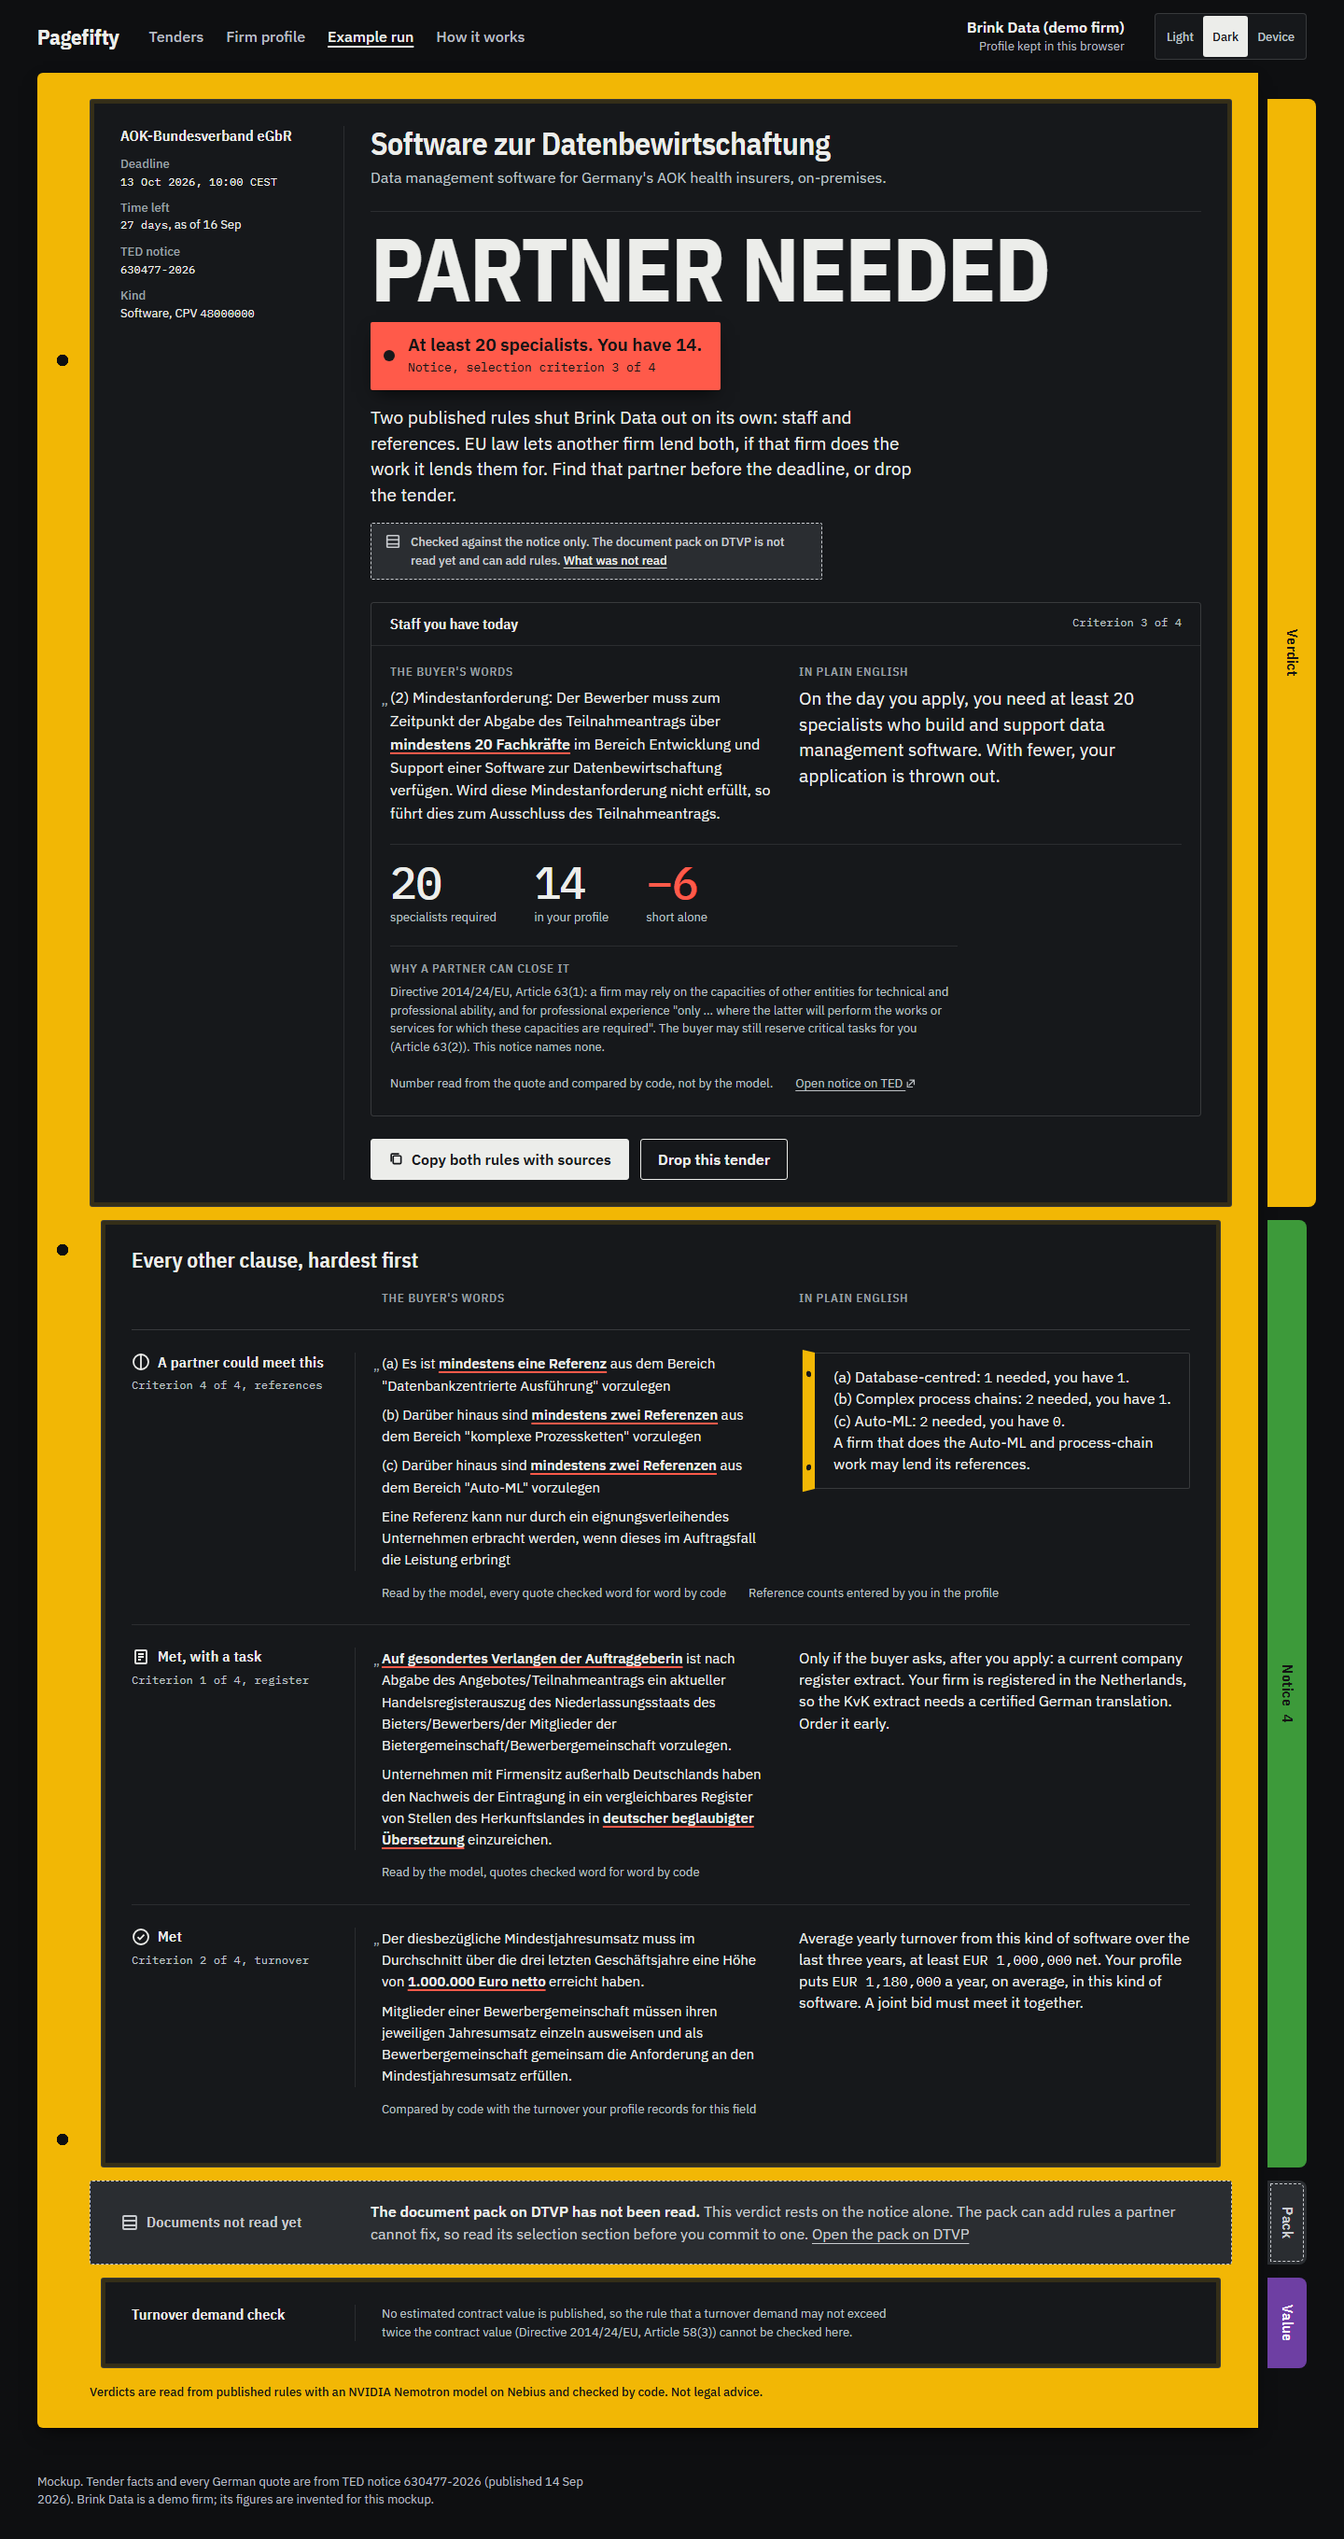
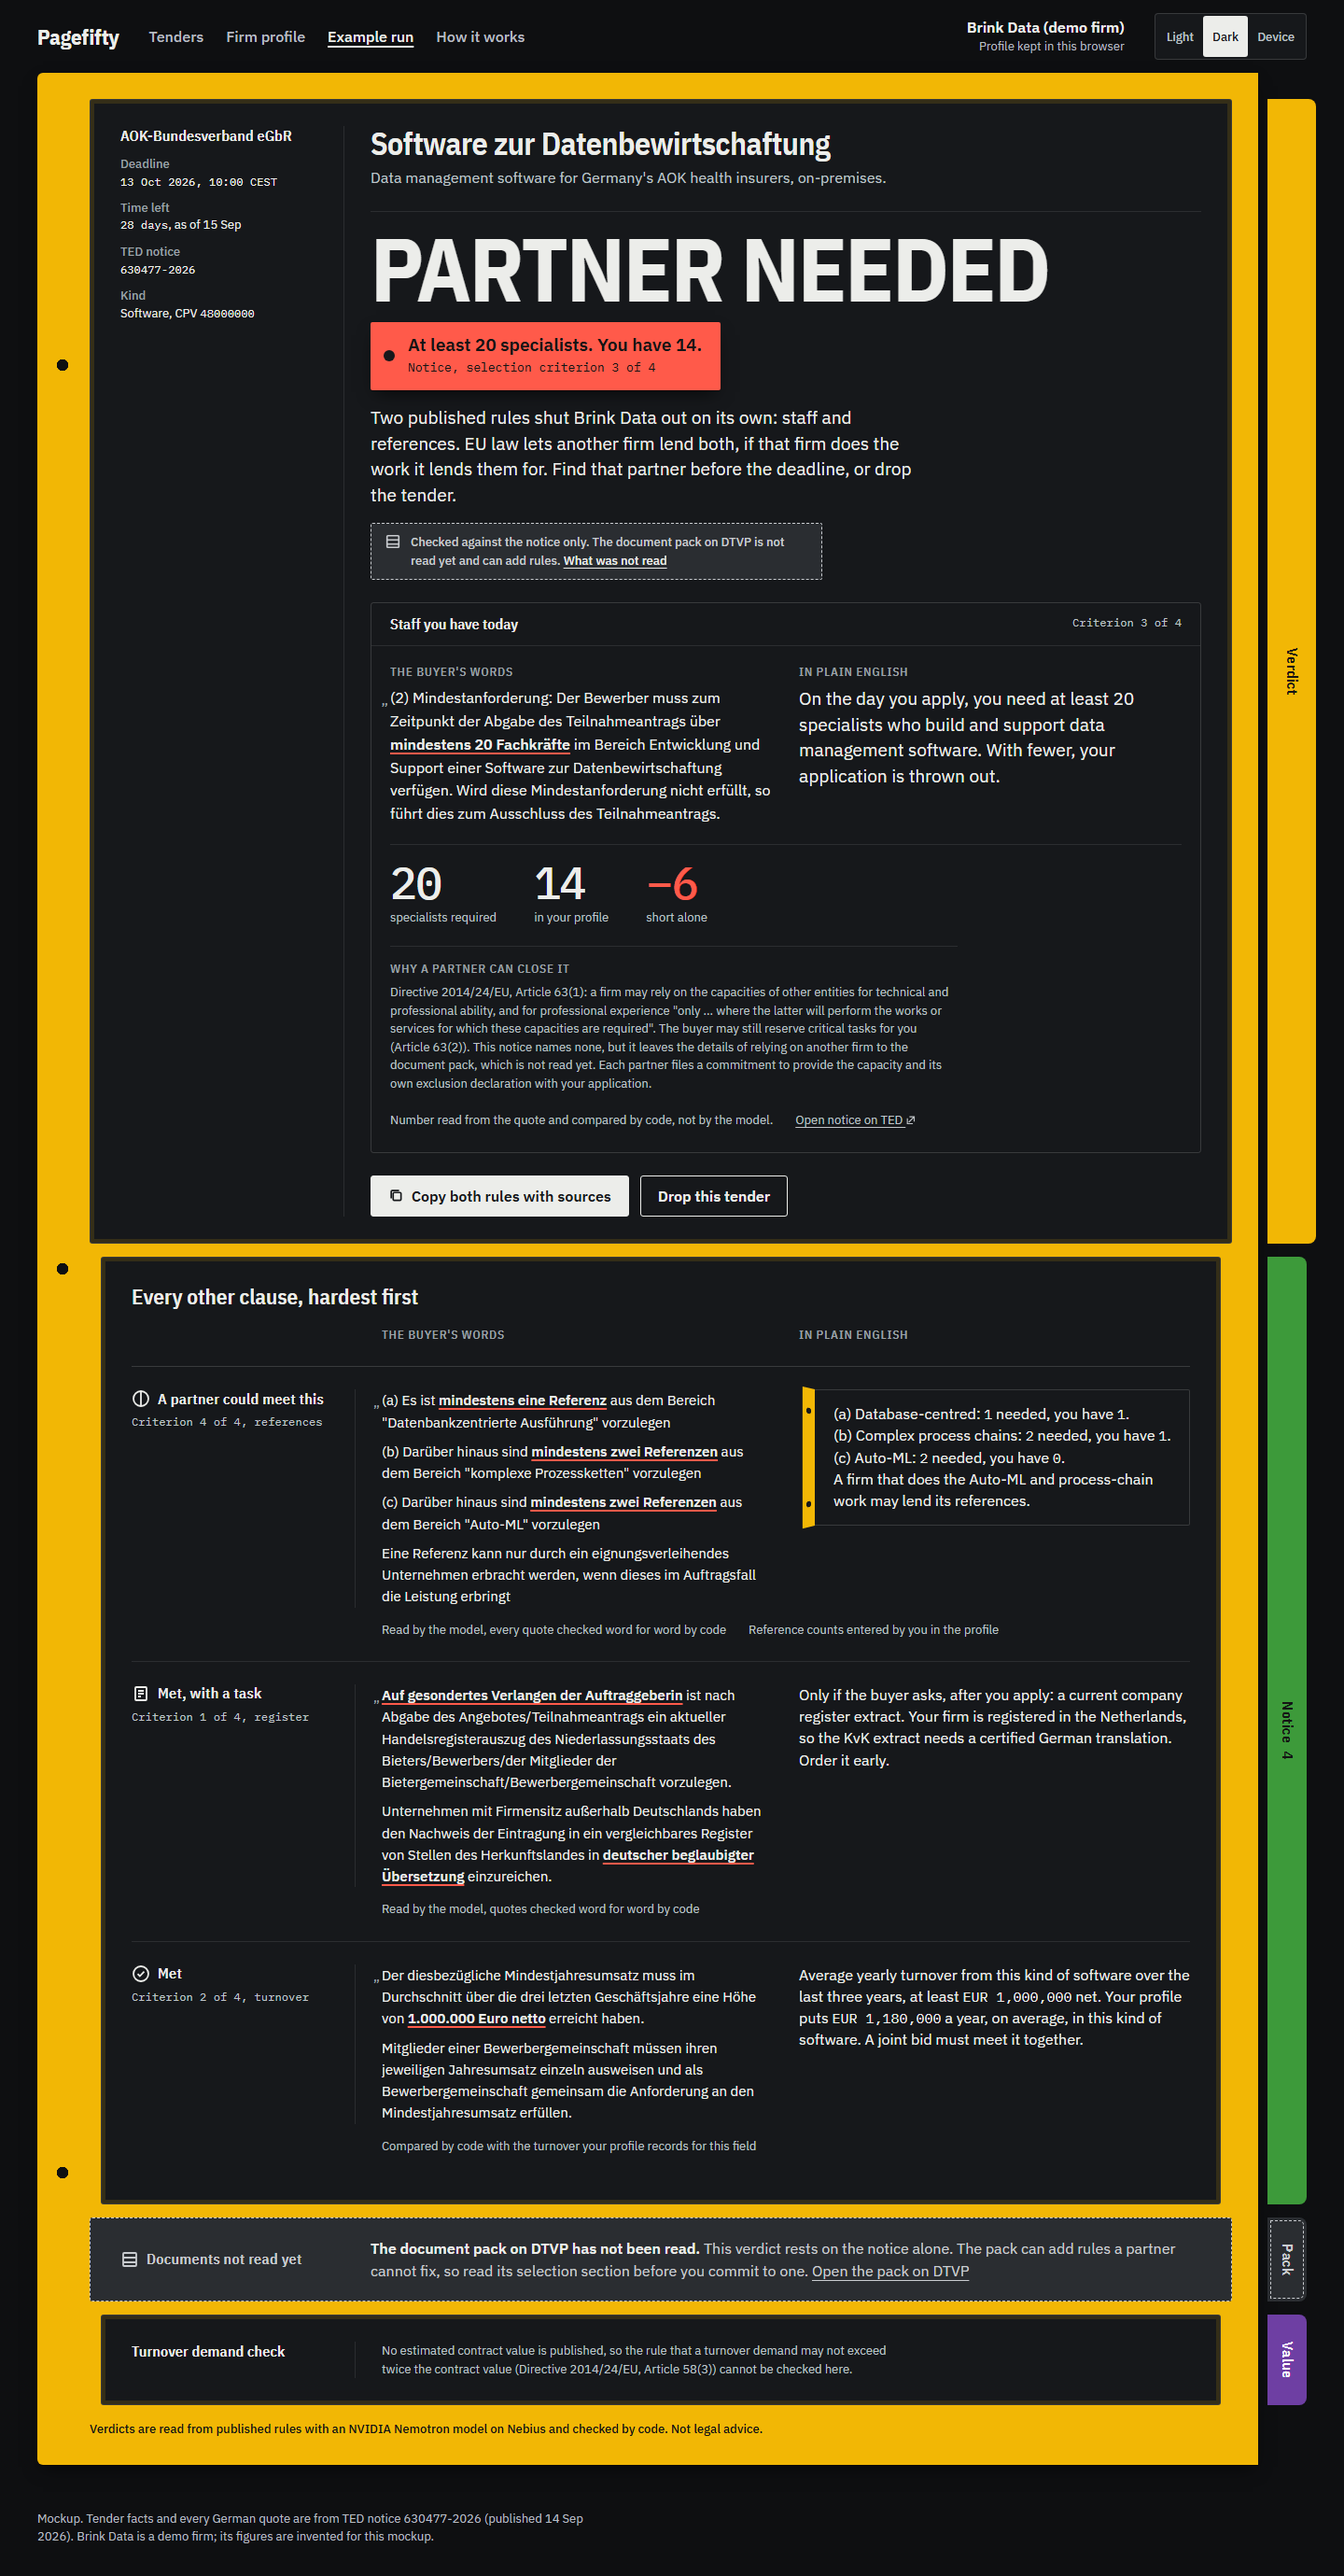
fix(design): name the partner conditions the notice sets
The verdict page said the AOK notice names no reserved task and stopped
there. Notice 630477 (IV.3) leaves the details of relying on another firm to
the document pack, which is unread, and (IV.2) makes each lending firm file a
commitment and its own exclusion declaration with the application. VERD-03
asks for both, and never for a partner shown as enough, so the partner note
now says them.

The example takes its capture date as now (01-SPEC.md), and the run was
captured 15 Sep, so time left reads 28 days as of 15 Sep.

ART-DIRECTION.md's Partner needed conditions now match VERD-03: commitment
and exclusion declaration, the partner doing the work it lends experience,
references or qualifications for, joint liability a buyer may require for
turnover, and any restriction left to unread documents. Verdict mockups
recaptured.

ritual step p2

diff --git a/design/verdict.html b/design/verdict.html
@@ -56,7 +56,7 @@
 							</div>
 							<div>
 								<dt>Time left</dt>
-								<dd><span class="mono">27 days</span>, as of 16 Sep</dd>
+								<dd><span class="mono">28 days</span>, as of 15 Sep</dd>
 							</div>
 							<div>
 								<dt>TED notice</dt>
@@ -141,7 +141,10 @@
 										entities for technical and professional ability, and for professional experience
 										"only ... where the latter will perform the works or services for which these
 										capacities are required". The buyer may still reserve critical tasks for you
-										(Article 63(2)). This notice names none.
+										(Article 63(2)). This notice names none, but it leaves the details of relying on
+										another firm to the document pack, which is not read yet. Each partner files a
+										commitment to provide the capacity and its own exclusion declaration with your
+										application.
 									</p>
 								</div>
 								<p class="provenance">

diff --git a/design/ART-DIRECTION.md b/design/ART-DIRECTION.md
@@ -109,7 +109,7 @@ Every text pair clears 4.5:1.
   - **Clear:** read and checked.
   - **Half-hinged:** a rule a partner firm could meet, where another firm may lend capacity.
   - **Face-down:** a document not read yet, never GO.
-  - **Errata slip:** a separate punched vermilion strip filed beside the verdict word, carrying the rule the firm cannot meet on its own and its shortfall. Because Directive 2014/24/EU Article 63 lets a partner lend turnover, staff and references, such a miss usually reads Partner needed rather than a flat no-go (verified on legislation.gov.uk, 2026-09-16). Partner needed means a partner is necessary, not that one is enough: it applies only when the notice reads no reserved task (Article 63(2)) or other limit on reliance for that criterion, it names the conditions (the partner performs the work it lends experience for, the firm proves access to the resources), and an unknown legal basis reads Ask first. The on-screen words for this state are still open.
+  - **Errata slip:** a separate punched vermilion strip filed beside the verdict word, carrying the rule the firm cannot meet on its own and its shortfall. Because Directive 2014/24/EU Article 63 lets a partner lend turnover, staff and references, such a miss usually reads Partner needed rather than a flat no-go (verified on legislation.gov.uk, 2026-09-16). Partner needed means a partner is necessary, not that one is enough: it applies only when the notice reads no reserved task (Article 63(2)) or other limit on reliance for that criterion, it names the conditions (the partner's commitment and exclusion declaration, the partner doing the work it lends experience, references or qualifications for, and the joint liability a buyer may require for turnover) and any restriction the notice leaves to unread documents, and an unknown legal basis reads Ask first. The on-screen words for this state are still open.
 - **The addendum slip** (violet tag) holds a drafted question to the buyer under Article 58(3).
 - **The verdict page's reading order:**
   1. Buyer, deadline and notice in the margin
